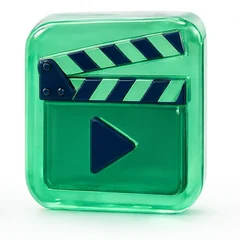
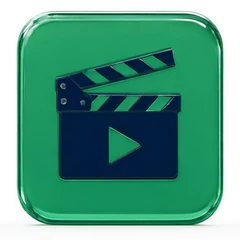
Tjänsteikoner: rak vy, skarpa kanter, ingen lutning

diff --git a/web/app/komponenter/TjanstIkon.module.css b/web/app/komponenter/TjanstIkon.module.css
@@ -1,27 +1,19 @@
-/* 3D-glasikon: lite på sned i vila, rätar upp sig med studs vid hover.
-   Kortet är ett <a>; a:hover läcker inte ut ur modulen eftersom .ikon är lokal.
-   Ordningen bland syskonen ger varje kort sin egen lutning. Bilderna är
+/* 3D-glasikon: rak i vila, lyfter med studs vid hover.
+   Kortet är ett <a>; a:hover läcker inte ut ur modulen eftersom .ikon är lokal. Bilderna är
    renderade på vitt, samma vitt som kortet, så de behöver ingen frilagd kant. */
 .ikon {
   display: block;
   width: 96px;
   margin: -0.4rem 0 0.6rem -0.5rem;
-  transform: rotate(-5deg);
   transition: transform 0.24s var(--studs);
   will-change: transform;
 }
 
-a:nth-child(2n) .ikon {
-  transform: rotate(4deg);
-}
-
-a:nth-child(3n) .ikon {
-  transform: rotate(-3deg);
-}
-
+/* Ingen lutning i vila (Mathias 2026-10-07: lutningen fick glaset att se smält ut).
+   Vid hover lyfter ikonen rakt upp med en studs. */
 a:hover .ikon,
 a:focus-visible .ikon {
-  transform: rotate(0deg) scale(1.08) translateY(-3px);
+  transform: scale(1.06) translateY(-4px);
 }
 
 .ikon img {
